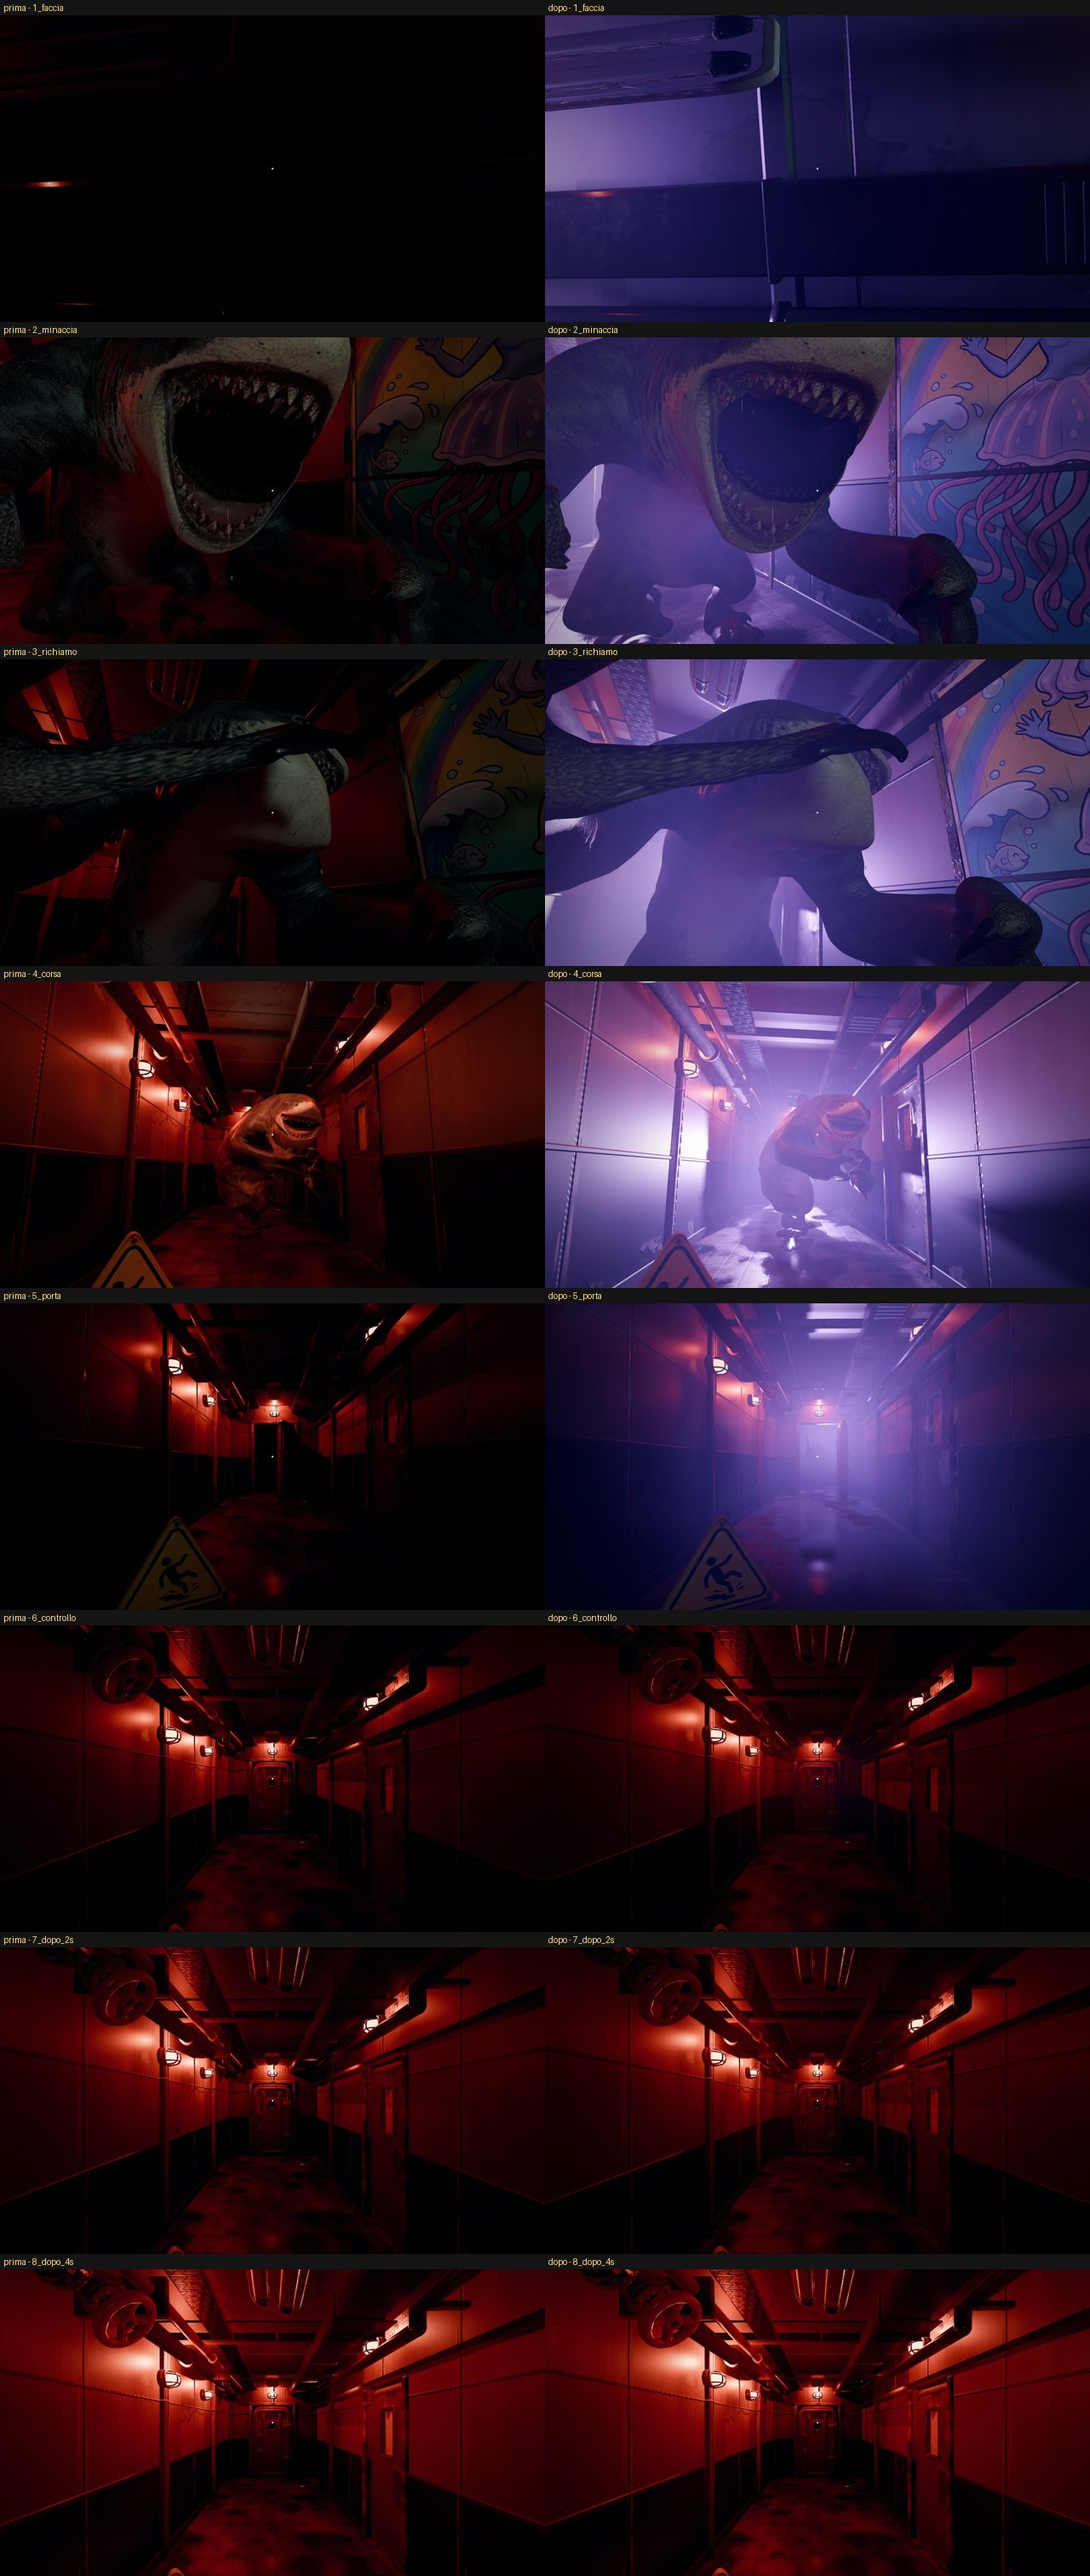
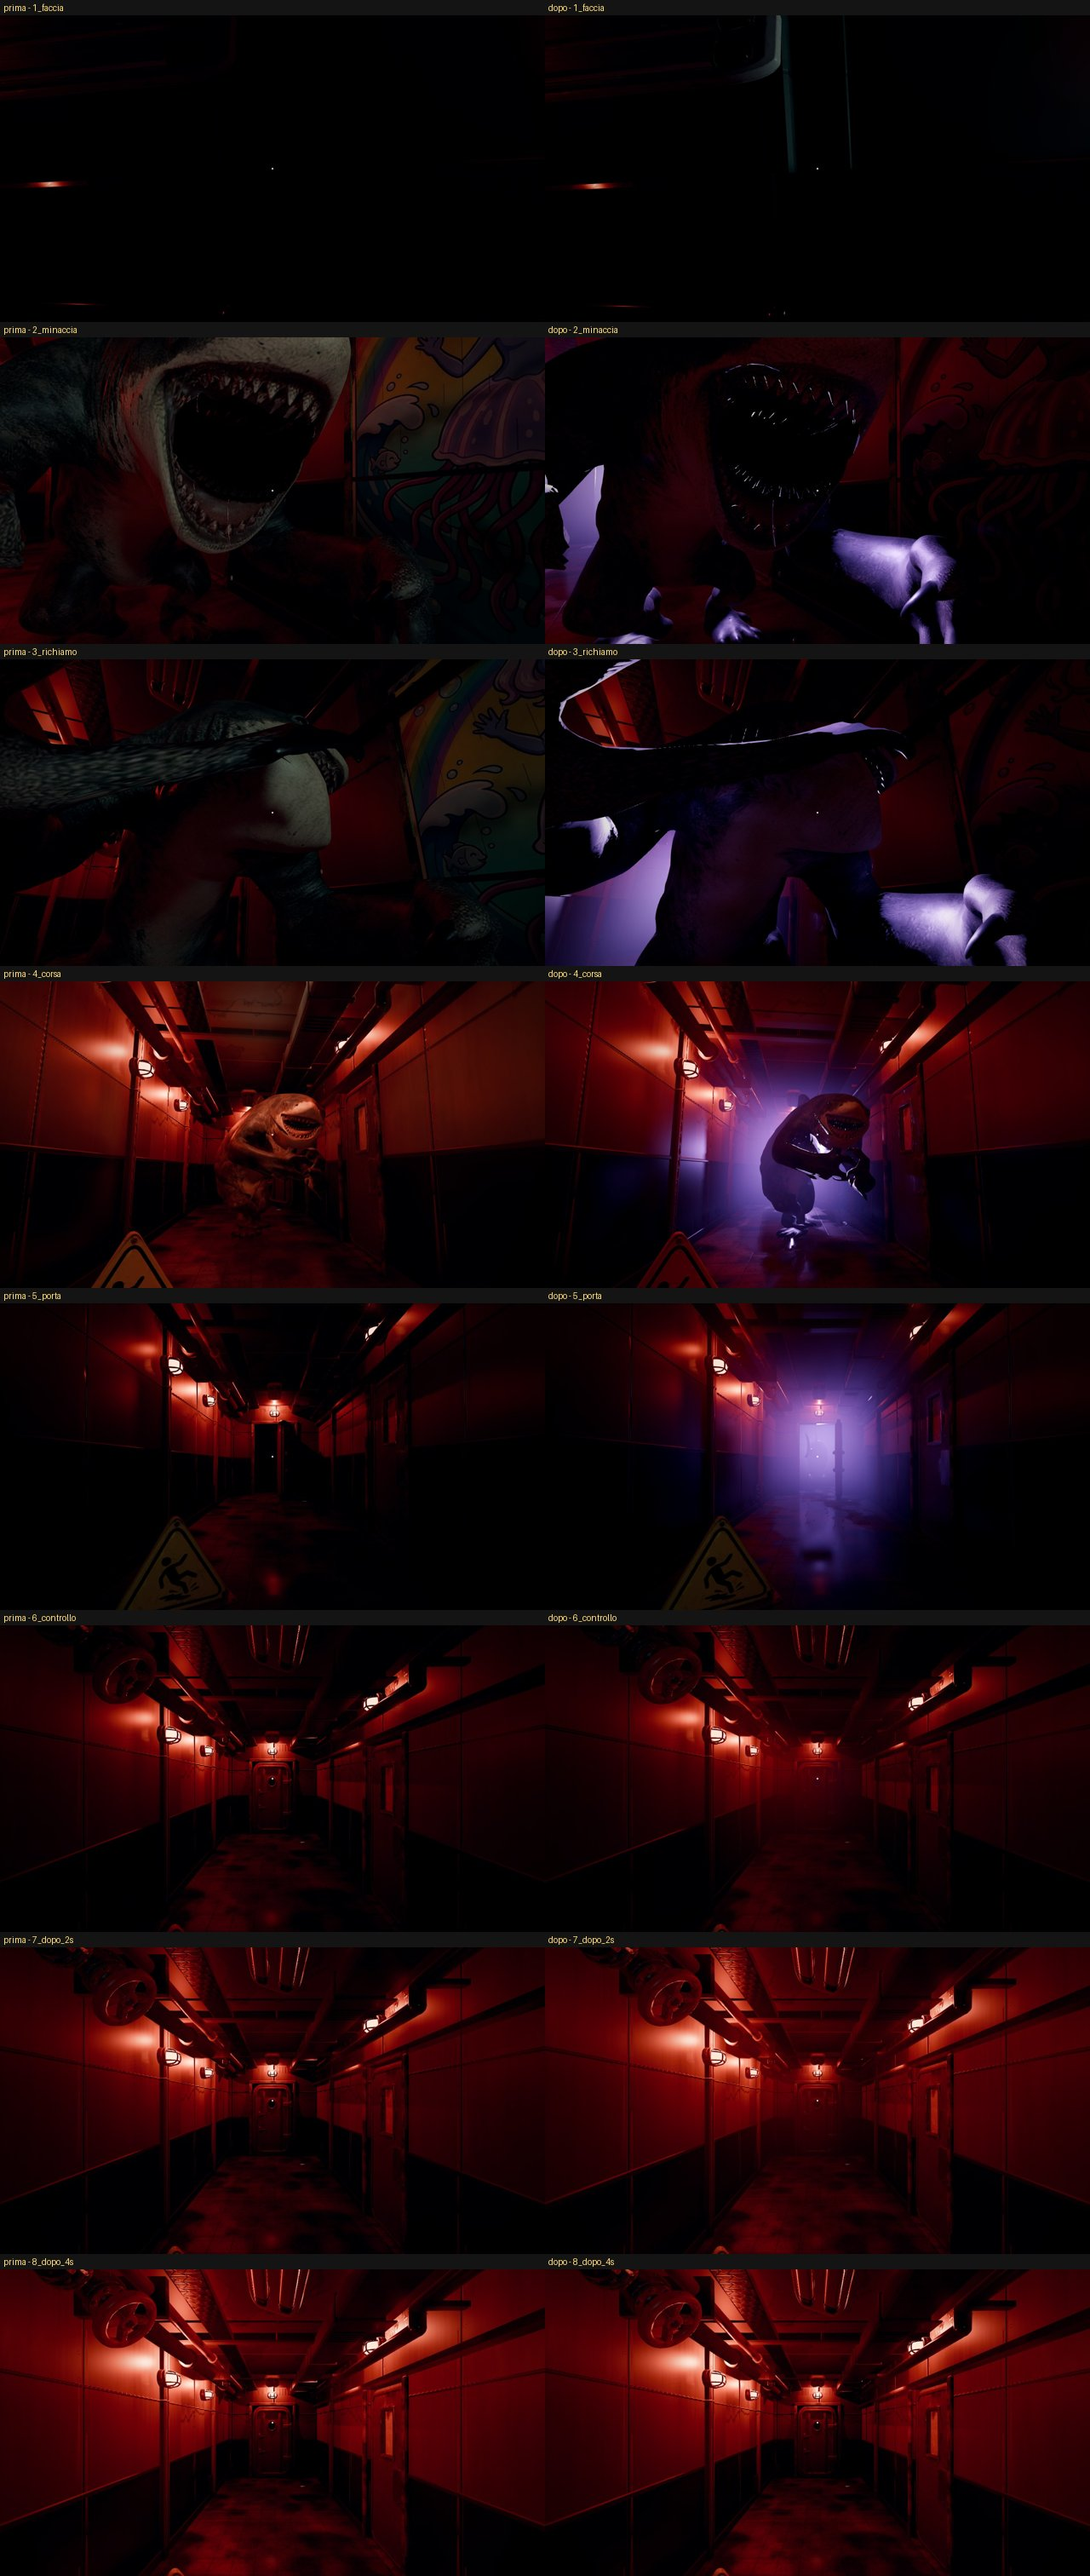
Squalo all'inizio, seconda versione: controluce vera (faro viola dietro di lui solo sullo squalo, lampade del corridoio tolte da lui durante la scena, luce della corsa al 15%), bagliore stretto dalla porta senza luce indiretta (l'inizio resta buio), nebbia fitta verso la porta e in basso; scatti pri
Claude-Session: https://claude.ai/code/session_01CKPshjKrddtekB7nZK4rGD

diff --git a/docs/report/squalo_viola/LEGGIMI.md b/docs/report/squalo_viola/LEGGIMI.md
@@ -2,11 +2,12 @@
 
 Richiesta dell'utente: "lo squalo all'inizio è ancora un po goofy. E se per dargli più atmosfera e nasconderlo un po' facessimo che da dietro di lui arriva una fortissima luce viola (il bagliore di Jilly) e magari nella stanza c'è pure una nebbia densa che si dirada appena inizi a entrare in controllo del personaggio?"
 
-- `godot/scripts/interni/atmosfera_squalo.gd` (AtmosferaSqualo), figlio di RisveglioSqualo (4 righe nel suo `_ready`, animazioni e suoni di mascotte non toccati):
-  - un faro viola (0,62; 0,36; 1,0, i fari viola della vasca di Jilly) fortissimo dietro la porta tagliafuoco, con l'ombra, puntato verso il giocatore; al boato di lei cresce del 35%; quando la porta si chiude si spegne di colpo;
-  - la luce della corsa di mascotte (davanti allo squalo) al 35% mentre c'è il viola: lo squalo resta una sagoma leggibile;
-  - una nebbia (FogVolume) nel corridoio, densità 0,05, che il viola illumina; quando torna il controllo si dirada in 4 s fino alla nebbia normale;
-  - luce e nebbia nascono col livello, spente: shader e pipeline pronti prima della scena (niente scatti). Memoria video: niente texture nuove.
-- Test in CI: `godot/tests/test_squalo_viola.gd` (12 controlli).
+- `godot/scripts/interni/atmosfera_squalo.gd` (AtmosferaSqualo), figlio di RisveglioSqualo (4 righe nel suo `_ready`, animazioni e suoni di mascotte non toccati). Seconda versione (riscontro del coordinatore: "nasconderlo un po'", controluce vera, nebbia densa, l'inizio buio):
+  - il bagliore dalla porta: un faro viola (0,62; 0,36; 1,0, i fari viola della vasca di Jilly) stretto, che si ferma prima del giocatore e non rimbalza (niente luce indiretta): il corridoio resta buio, il viola si vede dalla porta e nei raggi della nebbia; al boato cresce del 35%; a porta chiusa si spegne di colpo;
+  - la controluce: un faro dietro lo squalo (dalla parte della porta) che illumina solo lui (il suo strato): il bordo viola acceso, la faccia verso di te al buio coi denti e il bordo che brillano;
+  - durante la scena le lampade rosse del corridoio non illuminano lo squalo (tornano come prima col controllo), e la luce della corsa di mascotte è al 15%: lui è una sagoma, ma non sparisce;
+  - la nebbia (FogVolume, densità 0,3) è fitta verso la porta e in basso (cala con l'altezza, sfuma verso il giocatore); quando torna il controllo si dirada in 4 s fino alla nebbia normale;
+  - luce, controluce e nebbia nascono col livello, spente: shader e pipeline pronti prima della scena (niente scatti). Memoria video: niente texture nuove.
+- Test in CI: `godot/tests/test_squalo_viola.gd` (13 controlli).
 - Scatti interni (non per l'utente): `godot/tests/scatti_squalo_viola.gd`, stessi momenti prima e dopo: `prima_dopo.jpg`.
 - Nota: se nelle impostazioni grafiche la nebbia volumetrica è spenta, resta solo la luce viola (niente nebbia).
